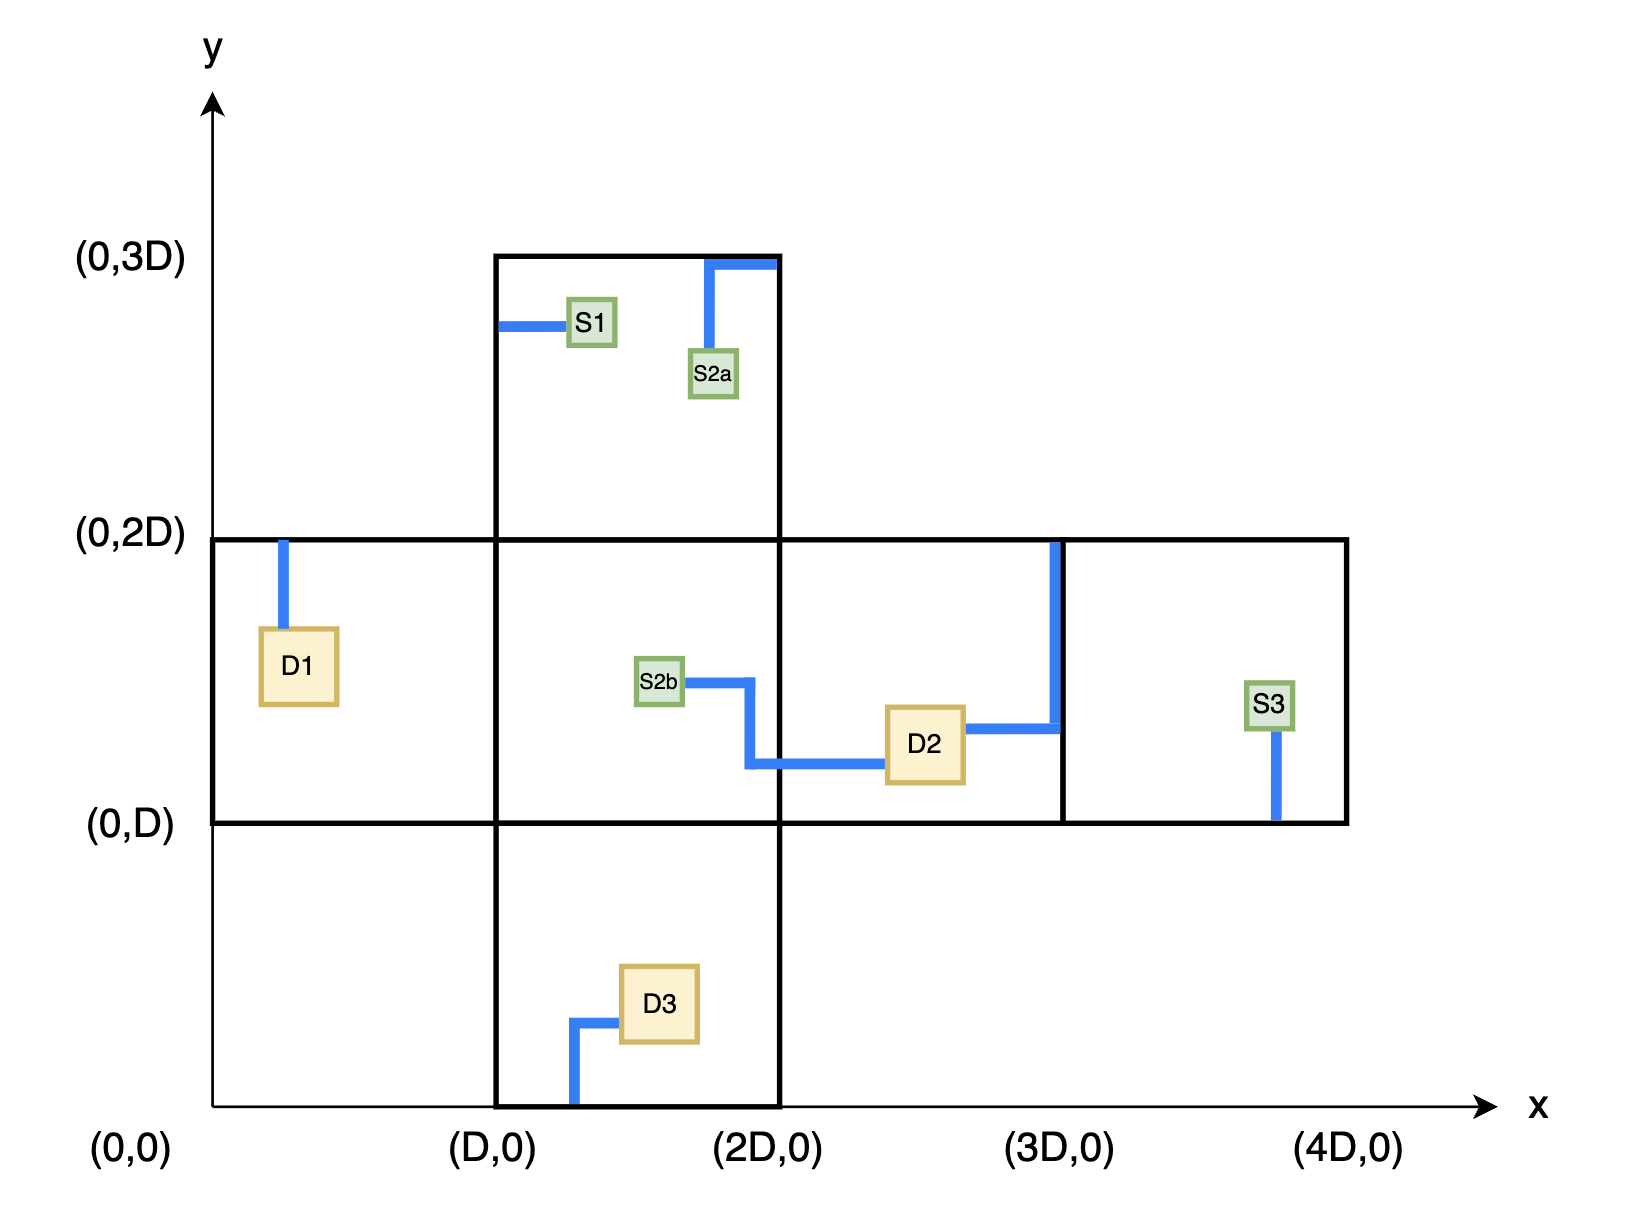
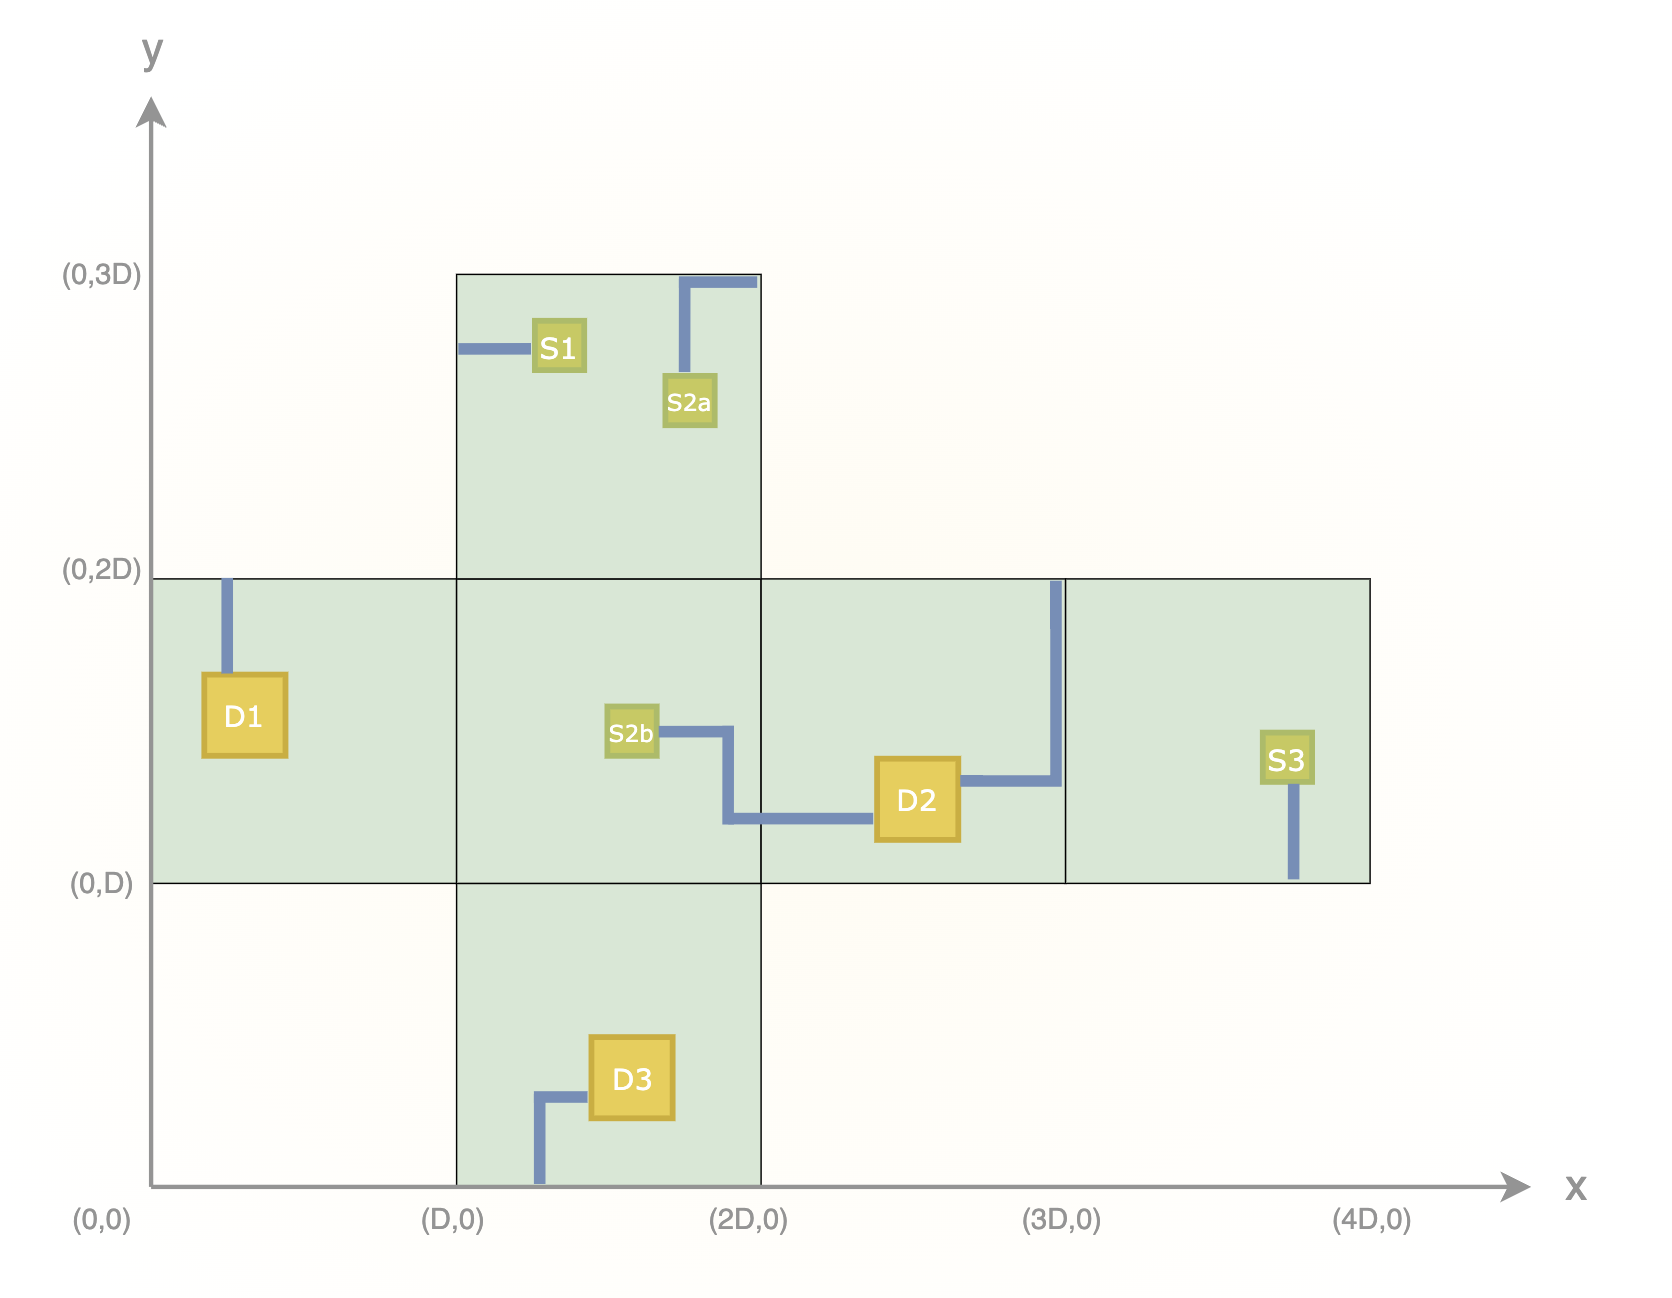
docs: edit page

diff --git a/isaac/docs/eng/universe-micro.md b/isaac/docs/eng/universe-micro.md
@@ -2,7 +2,7 @@
 
 ### The micro coordinate system
 The planet is shaped like a cube of equal dimension on each side. Denoting the dimension of the cube as `D`, the surface of the cube is endowed with a **grid coordinate system** over integers by **unfolding** the cube to a 2D plane:
-<img src="/assets/images/micro_grid.png"/>
+<img src="/assets/images/grid.png"/>
 
 where:
 - Face 3 is the top face, whose surface normal points upward from the orbital plane; Face 1 surface normal points downward from the orbital plane.
@@ -15,7 +15,7 @@ Apparently, not every integer pair is a **valid grid coordinate** on the surface
 ##### Element types
 All element types are defined in the namespace `core/contracts/design/constants.cairo` :: `ns_element_types`.
 
-| Type index | Name                   |
+| Type index | Name |
 | ------------------ | ---------------------- |
 | 0                  | Raw iron               |
 | 1                  | Refined iron           |
@@ -28,8 +28,10 @@ All element types are defined in the namespace `core/contracts/design/constants.
 | 8                  | Raw plutonium-241      |
 | 9                  | Enriched plutonium-241 |
 
-##### Perlin noise for distribution
-___ TODO ___
+##### Distribution
+Every grid on the planet surface has a predefined concentration level of each raw element type, which is described by the distribution function. The distribution function utilizes the commonplace **perlin noise algorithm** to ensure somewhat smooth gradient along the distribution inexpensively.
+
+The distribution functions are regulated in `core/contracts/util/distribution.cairo` and `core/contracts/util/perlin.cairo`.
 
 ### Devices
 
@@ -114,5 +116,11 @@ A deployed and contiguous set of UTLs transports energy from its power-generatin
 The transmission mechanics is regulated in `core/contracts/util/logistics.cairo` :: `ns_logistics_utl`.
 
 ### Micro world forwarding
-- analogous to circuit simuation
+The procedure of forwarding the micro world is akin to the [simulation](https://en.wikipedia.org/wiki/Logic_simulation) of pipelined logical circuits. In particular, each device is analogous to a flip-flop register, and each contiguous set of UTB/UTL is analogous to combinational logic between a pair of flip-flop registers. Resource harvested / transformed at a given device is analogous to propagating from a register's D pin to Q pin, whereas resource/energy moving along UTB/UTL is analogous to propagating logical signals across a combinational logic from its source register to its destination register.
 
+At every tick, the micro world is forwarded by the following steps:
+1. Each deployed device updates its resource or energy. Each power-generating device updates the quantity of energy it holds based on power generation mechanics. Each harvester device updates the quantity of resource it holds based on harvesting mechanics.s Each tranformer device updates the quantities of before-transform and after-transform resources it holds based on transformation mechanics.
+2. For each deployed UTB set, resource is transported from its source device to its destination device based on the resource transportation mechanics.
+3. For each deployed UTL set, energy is transmitted from its source device to its destination device.
+
+The procedure for forwarding the micro world is regulated in the namespace `contracts/core/micro/micro_forwarding.cairo` :: `ns_micro_forwarding`.

diff --git a/isaac/docs/eng/narrative.md b/isaac/docs/eng/narrative.md
@@ -8,3 +8,4 @@ All players must collaborate to build factory pipelines and power grids to trans
 
 Players must position their NDPEs and time the launch strategically, with respect to planet rotation and relative position to the suns, to either (1) change orbit strategically, or (2) escape the trisolar system by driving the planet to escape velocity along a safe escape route.
 
+The thinking of imposing a macro pace - the cadence of approaching extinction events - that shape the experience of player coordination is heavily inspired by *Scavengers* (2021), elaborated in [this essay](https://www.guiltygyoza.xyz/2021/06/scavengers-immersive-theatre).
